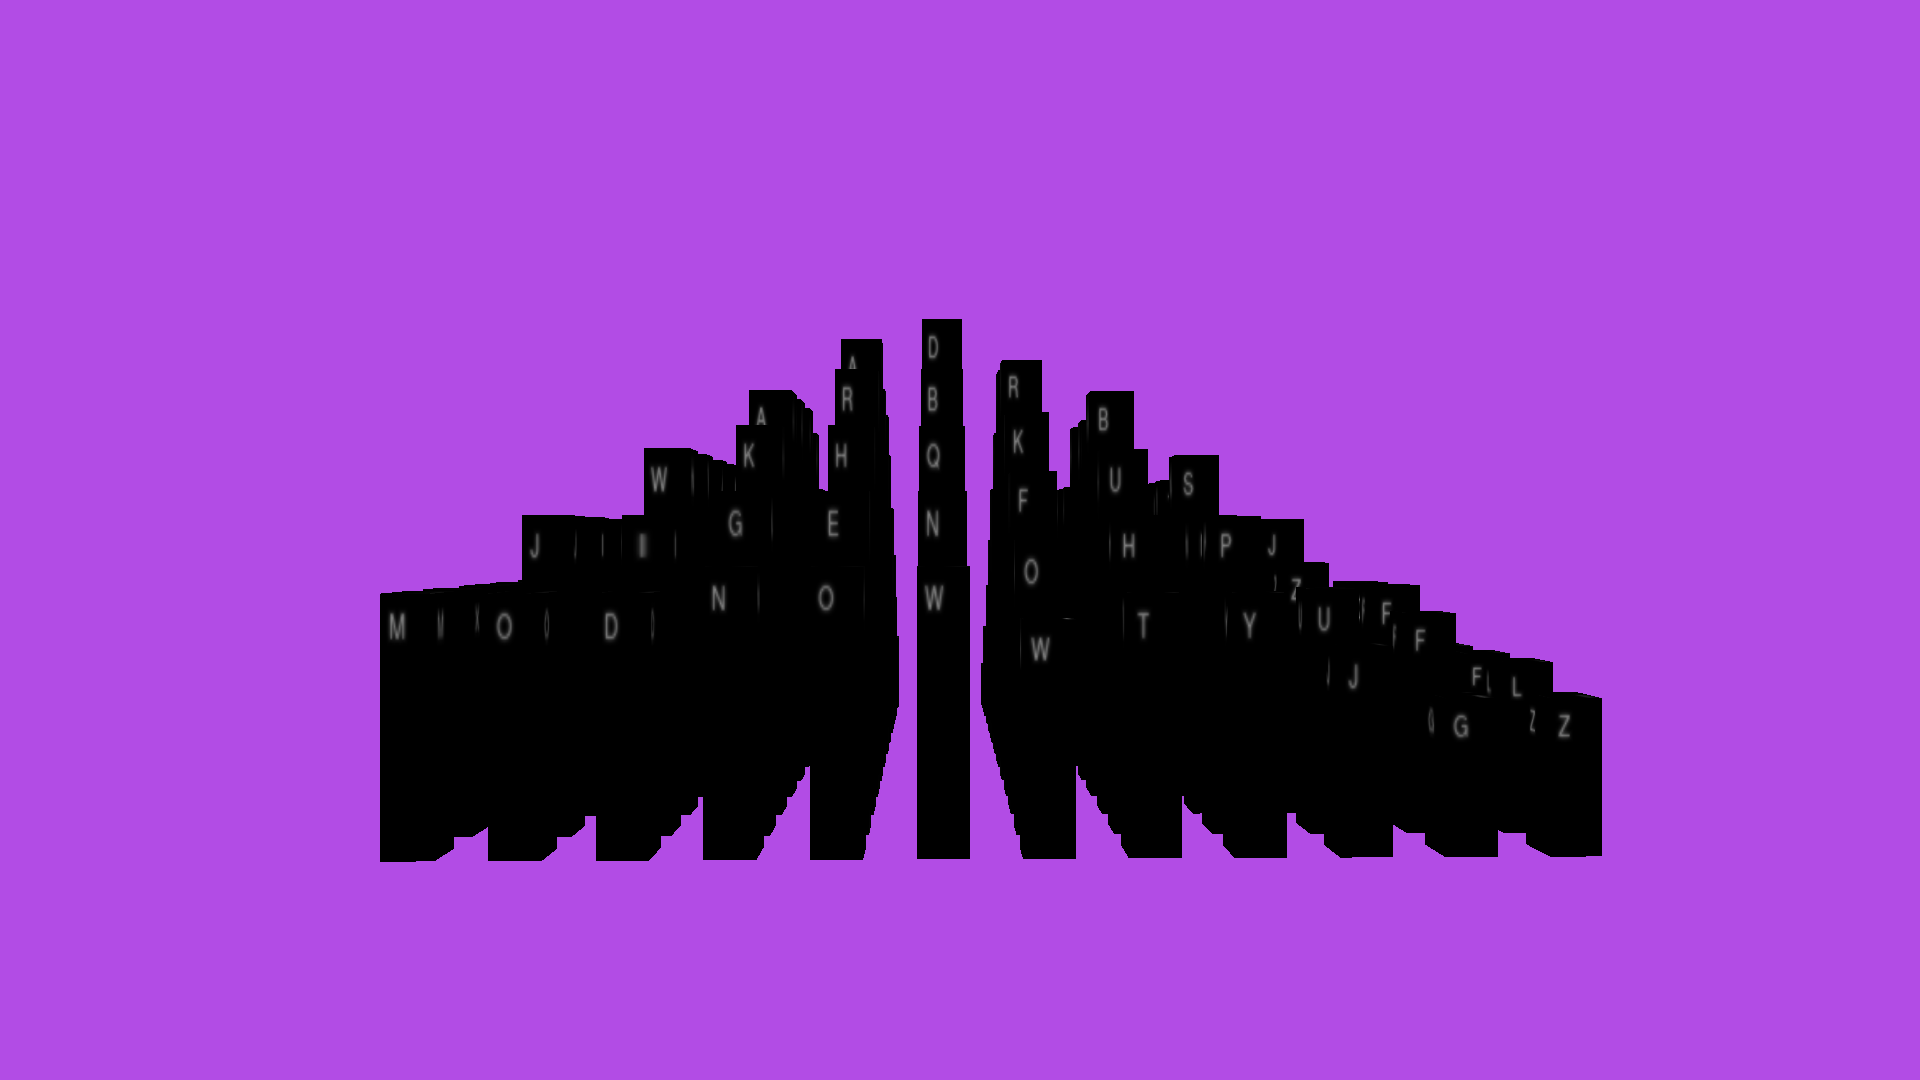
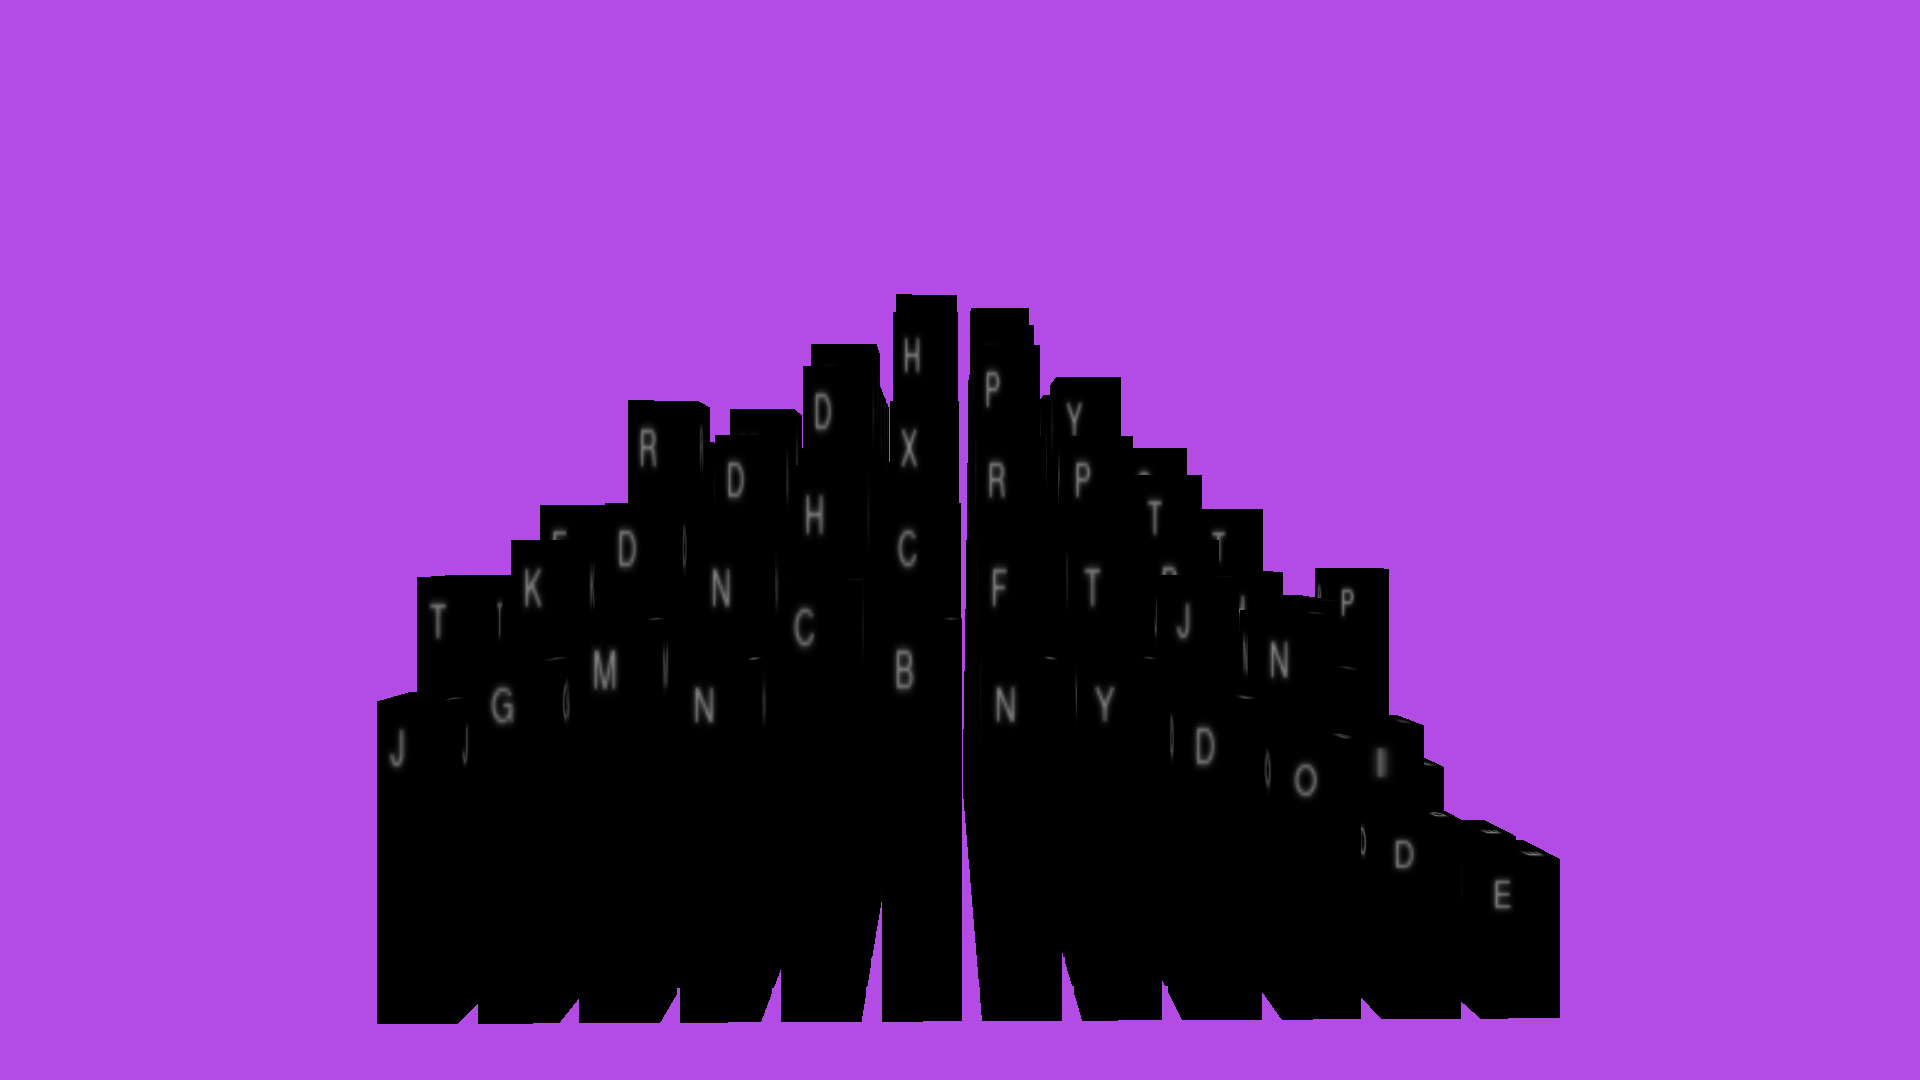
added readme and updated assests

diff --git a/TopologicalWordSearch.py b/TopologicalWordSearch.py
@@ -384,7 +384,7 @@ def draw_cubeMap(cubeMap,heightMap,N=7):
             # 2*z, 2*x is for spacing between blocks
             # h is cut in half to make it look smaller
             # y is cut in 4 because y grows from cube mid point, so it needs to be h/2
-            cube = pi3d.Cuboid(x=2*x, y=heightMap[i][j]/4, z=2 * z, h=heightMap[i][j]/2)
+            cube = pi3d.Cuboid(x=1.25*x, y=heightMap[i][j]/4, z=1.25 * z, h=heightMap[i][j]/2)
 
             cube_row.append(cube)  # Add cube to the list
             x += 1
@@ -417,12 +417,12 @@ def placeWords(fname,letter_matrix, N):
             add_word_down(content, letter_matrix, N)
 
 
-def main(fname = "assets/dictionary/words", N = 12):
+def main(fname = "assets/dictionaries/words.txt", N = 12):
     # create display
     DISPLAY = pi3d.Display.create(background=(0.7, 0.3, 0.9, 1))
 
     # create camera and move it back a bit
-    CAM = pi3d.Camera(at=(0.5,N/2,0.0),eye =(0.5,N/2,-2.5*N))
+    CAM = pi3d.Camera(at=(0.5,N/2,0.0),eye =(0.25,N/2,-1.5*N))
 
     letter_matrix = create_letter_matrix(N)
 
@@ -430,10 +430,8 @@ def main(fname = "assets/dictionary/words", N = 12):
     heightMap = gen_heightMap(N)
     draw_cubeMap(cubeMap,heightMap,N)
 
-
     # create keyboard listener
     keys = pi3d.Keyboard()
-
 
     # load shaders
     shader = pi3d.Shader("uv_bump")
@@ -443,7 +441,6 @@ def main(fname = "assets/dictionary/words", N = 12):
 
     #Place the words in the matrix
     placeWords(fname, letter_matrix, N)
-
 
     randomize_empty_cells(letter_matrix,N)
     print(letter_matrix)
@@ -459,11 +456,8 @@ def main(fname = "assets/dictionary/words", N = 12):
             cube.set_draw_details(lshader, [string1], 1.0)
             cube.set_light(light,0)
 
-
-
     # display loop
     try:
-
         while DISPLAY.loop_running():
             CAM.relocate(rot=r,distance=[-5,-5,-5])
 
@@ -472,16 +466,13 @@ def main(fname = "assets/dictionary/words", N = 12):
                 for cube in cuberow:
                     cube.draw()
 
-            r += 1
-
-            #only do one rotation
-            if r == 360:
-                break
-
             # take a screenshot every 90 degree rotation
             if r % 90 == 0:
                 pi3d.util.Screenshot.screenshot("screen_" + str(r) + ".png")
-
+            r += 1
+            # only do one rotation
+            if r == 360:
+                break
             # handle escape
             if keys.read() == 27:
                 break

diff --git a/README.md b/README.md
@@ -1,2 +1,21 @@
 # TopologicalWordSearch
 A new take on the standard wordsearch puzzle
+
+Rather than a 2D topdown view, a 3D series of towers only visible at certain angles adds depth to the classic puzzle. This program can create NxN towers and generate sets such that each tower is visible from at least one side. 
+
+This was inspired by the TOWERS PUZZLE by [Unkown9](https://unknown9.com/)
+![TOWERS](inspiration.png)
+
+
+## How to Run
+
+    TopologicalWordSearch.py Dictionary GridSize
+
+The default dictionary can be found in assets/dictionaries/words.txt
+
+
+## Screenshots
+![Screenshot](screen_0.png)
+![Screenshot](screen_90.png)
+![Screenshot](screen_180.png)
+![Screenshot](screen_270.png)
